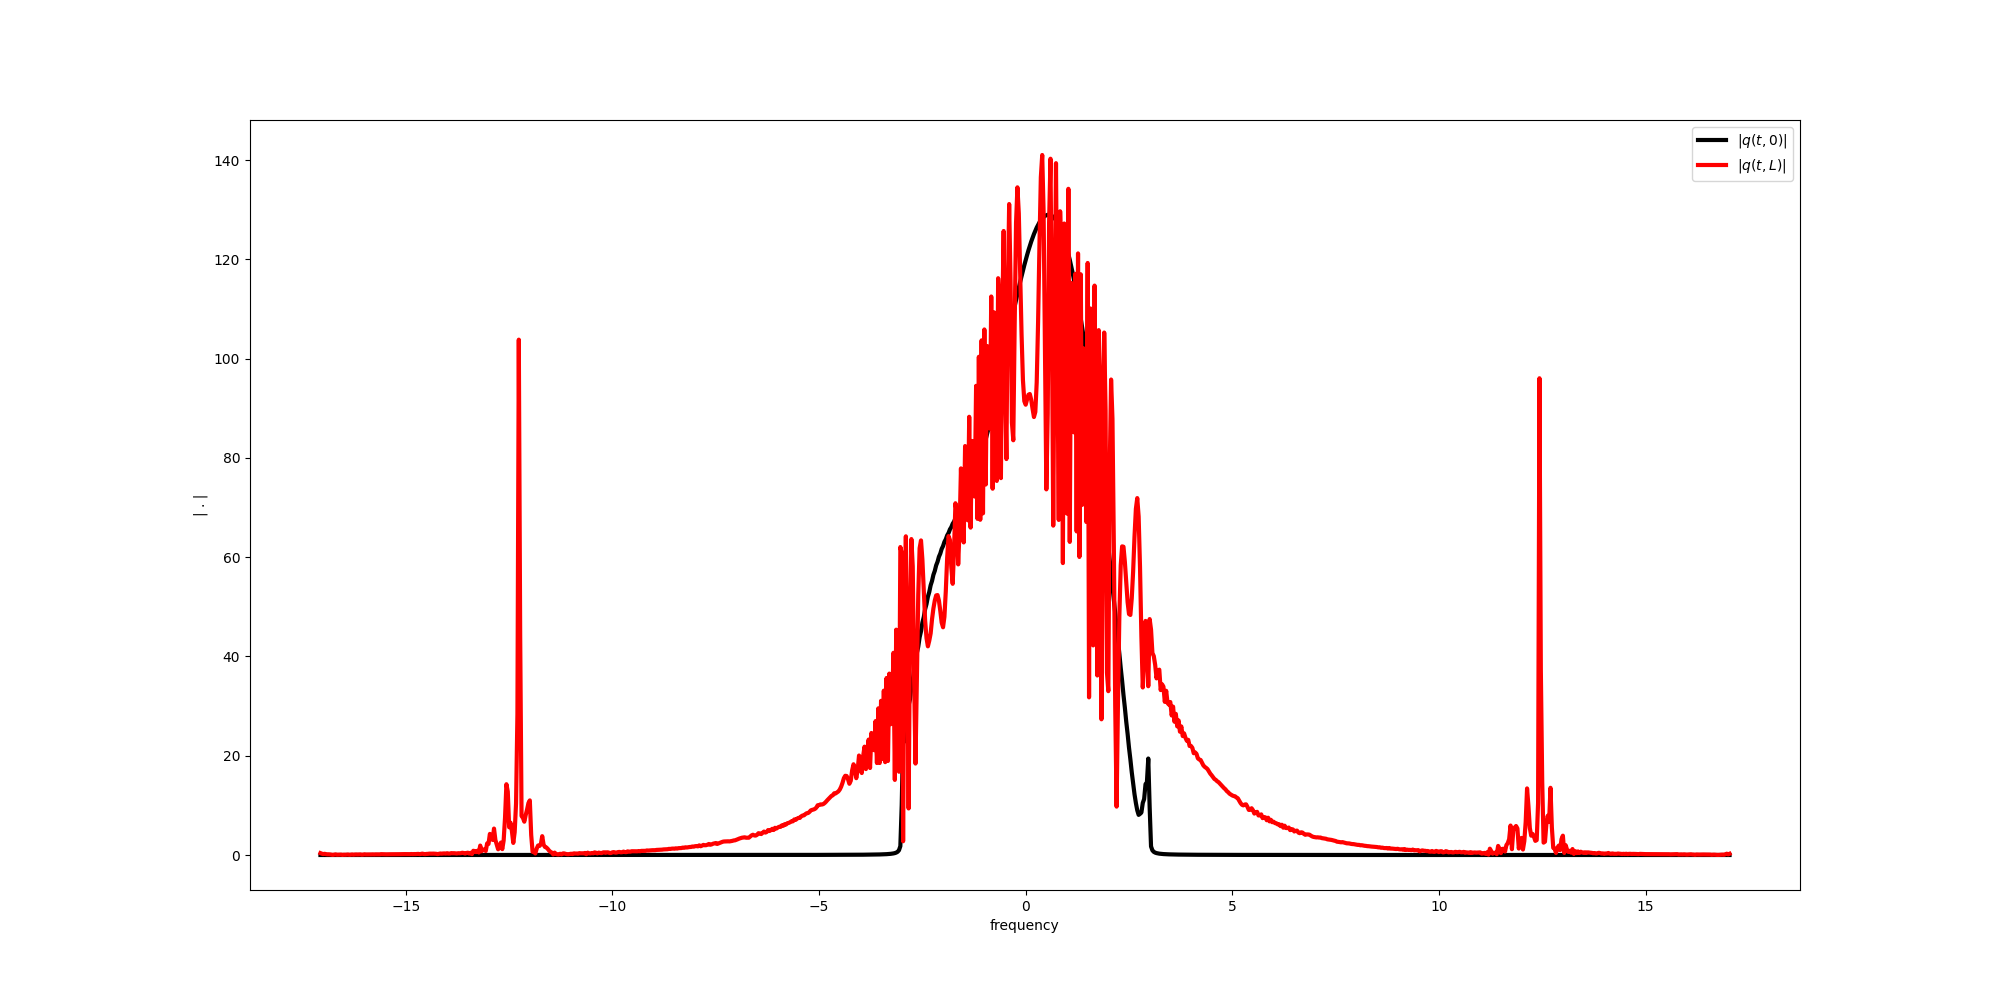
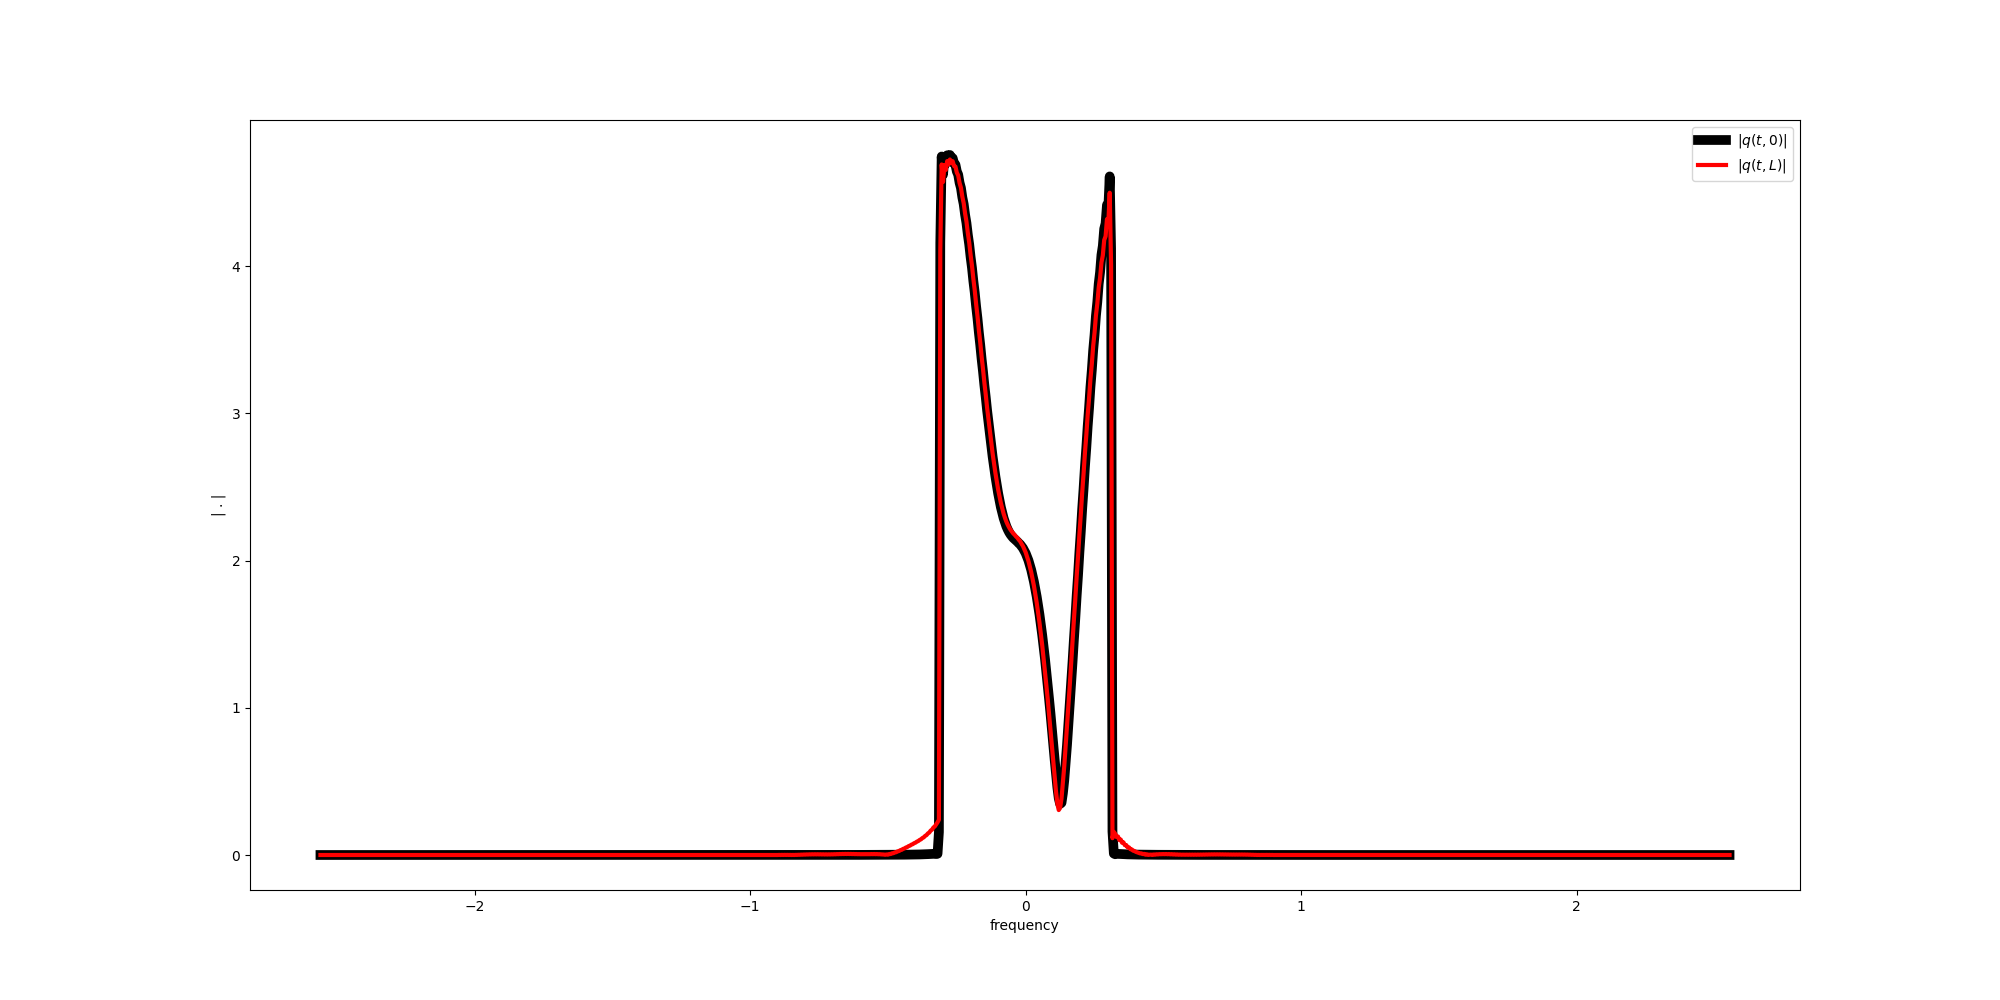
fixed constellation power and units

Changed region(s): [[0.155, 0.155, 0.868, 0.868], [0.837, 0.124, 0.868, 0.155]]

diff --git a/data.py b/data.py
@@ -6,8 +6,8 @@ import scipy
 
 class DataGenerator:
 
-    def __init__(self, Length=1e3, Bandwith=6, power_loss_db=0.2*1e-3, dispersion=17*1e-3, Gamma=1.27*1e-3,
-                 nsp=1, h=6.626*1e-34, lambda0=1.55*1e-6, T=200, N=2**5, number_symbols=3, p=0.5,M=16,):
+    def __init__(self, Length=1e6, Bandwith=6, power_loss_db=0.2*1e-3, dispersion=17, Gamma=1.27*1e-3,
+                 nsp=1, h=6.626*1e-34, lambda0=1.55, T=200, N=2**5, number_symbols=3, p=0.5,M=16,):
 
         self.Length = Length
         self.Bandwith = Bandwith # GHz to Hz
@@ -21,9 +21,15 @@ class DataGenerator:
         self.f0 = self.c / self.lambda0
         self.alpha = 1e-4 * log2(10) * self.power_loss_db
         self.beta2 = - (self.lambda0**2 / (2 * pi * self.c)) * self.dispersion
+        print("beta2 : ",self.beta2)
         self.L0 = self.Length
         self.T0 = sqrt(abs(self.beta2)*self.L0 / 2)
         self.P0 = 2 / (self.Gamma * self.L0)
+        
+        self.Bandwith_n = self.Bandwith * self.T0
+        
+        print(self.Bandwith_n)
+        
         self.sigma02 = self.nsp * self.h * self.alpha * self.f0
         self.sigma2 = (self.sigma02 * self.L0) / (self.P0 * self.T0)
         self.M = M
@@ -67,6 +73,10 @@ class DataGenerator:
         else:
             
             self.generate_constellation(M=self.M)
+            
+        self.average_constellation_power = np.mean(self.Constellation[:,0]**2 + self.Constellation[:,1]**2)
+        
+        self.Constellation = np.divide(self.Constellation,self.average_constellation_power)
 
     def generate_constellation(self,M):
         
@@ -147,8 +157,8 @@ class DataGenerator:
         
         for i in range(self.l1,self.l2+1,1):
             
-            self.q0t_list.append(sqrt(self.Bandwith) * complex(self.s[i - self.l1,0],self.s[i - self.l1,1]) *\
-                                 np.sinc(self.Bandwith * self.t - i))
+            self.q0t_list.append(sqrt(self.Bandwith_n) * complex(self.s[i - self.l1,0],self.s[i - self.l1,1]) *\
+                                 np.sinc(self.Bandwith_n * self.t - i))
         
         self.q0t_list = np.asarray(self.q0t_list)
         

diff --git a/main_test_generative.py b/main_test_generative.py
@@ -6,10 +6,11 @@ import numpy as np
 import matplotlib.pyplot as plt
 from tensorflow import keras
 
-T = 30
+T = 200
+N = 2**10
 
-params = Params(N=2**10,nz=1000,T=T,number_symbols=3)
-dg = DataGenerator(N=2**10,T=T,number_symbols=3)
+params = Params(N=N,nz=500,T=T,number_symbols=3)
+dg = DataGenerator(N=N,T=T,number_symbols=3)
 
 
 
@@ -33,11 +34,13 @@ x = dg.q0t
 
 y = NNET_GEN.nnet_generator(x=x)
 
+print(np.sum(np.abs(y)**2))
+
 plt.figure(figsize=(20,10))
 
 plt.xlabel(r'time')
 plt.ylabel(r'| . |')
-plt.plot(params.t,np.abs(x),color='black',label=r'$|q(t,0)|$',lw=3)
+plt.plot(params.t,np.abs(x),color='black',label=r'$|q(t,0)|$',lw=7)
 plt.plot(params.t,np.abs(y),color='red',label=r'$|q(t,L)|$',lw=3)
 
 plt.legend()
@@ -53,7 +56,7 @@ plt.figure(figsize=(20,10))
 
 plt.xlabel(r'frequency')
 plt.ylabel(r'| . |')
-plt.plot(params.f,np.abs(q0f),color='black',label=r'$|q(t,0)|$',lw=3)
+plt.plot(params.f,np.abs(q0f),color='black',label=r'$|q(t,0)|$',lw=7)
 plt.plot(params.f,np.abs(yf),color='red',label=r'$|q(t,L)|$',lw=3)
 
 plt.legend()
